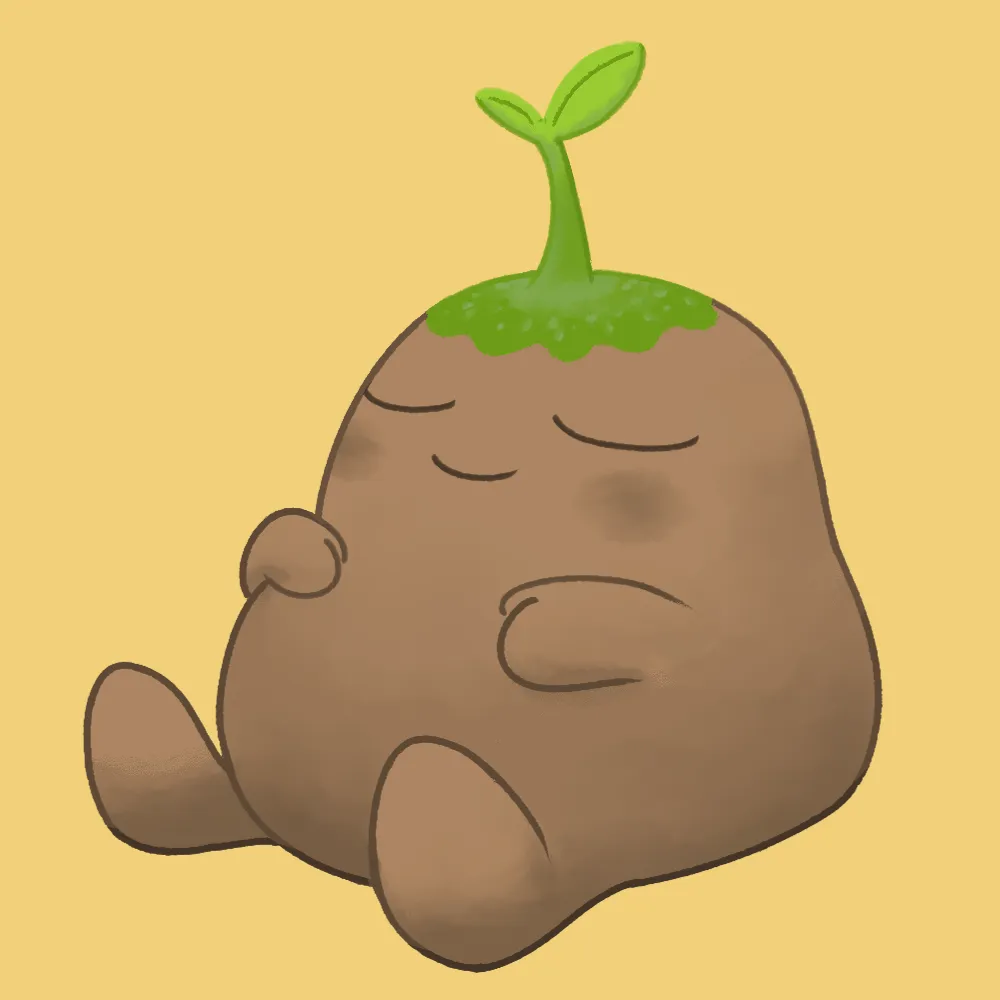
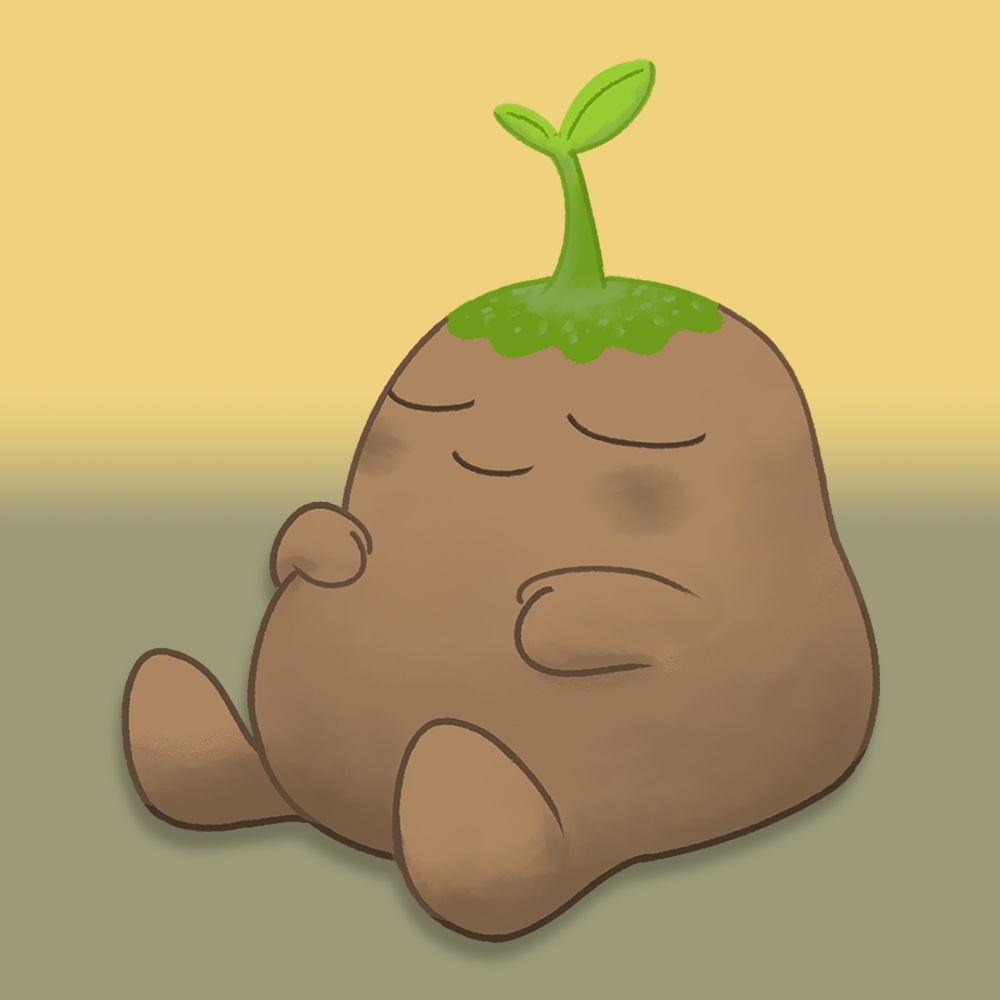
works update

diff --git a/computer.js b/computer.js
@@ -1,6 +1,6 @@
 // === Development Toggle ===
-const devEditMode = false;
-const devPopupId = "gamesPopup"; // dev-only popup
+const devEditMode = true;
+const devPopupId = "worksPopup"; // dev-only popup
 
 document.addEventListener("DOMContentLoaded", () => {
   // --- Handle initial popup ---
